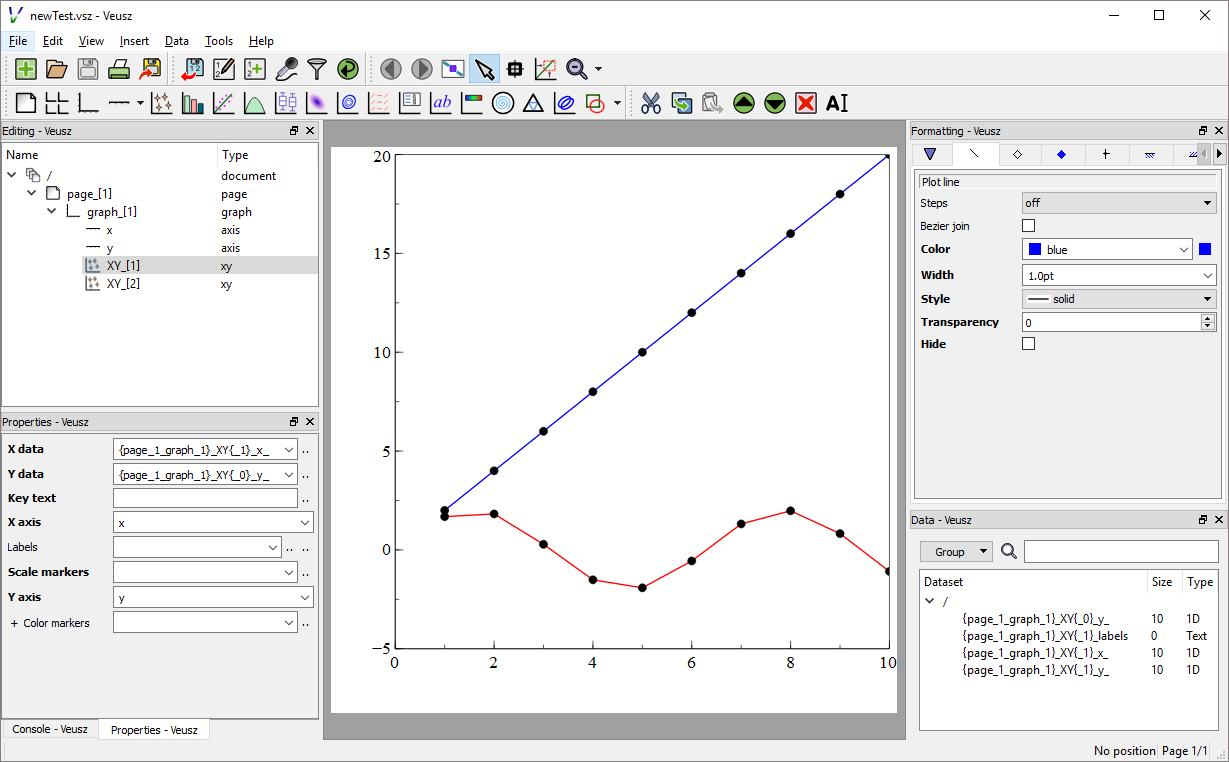
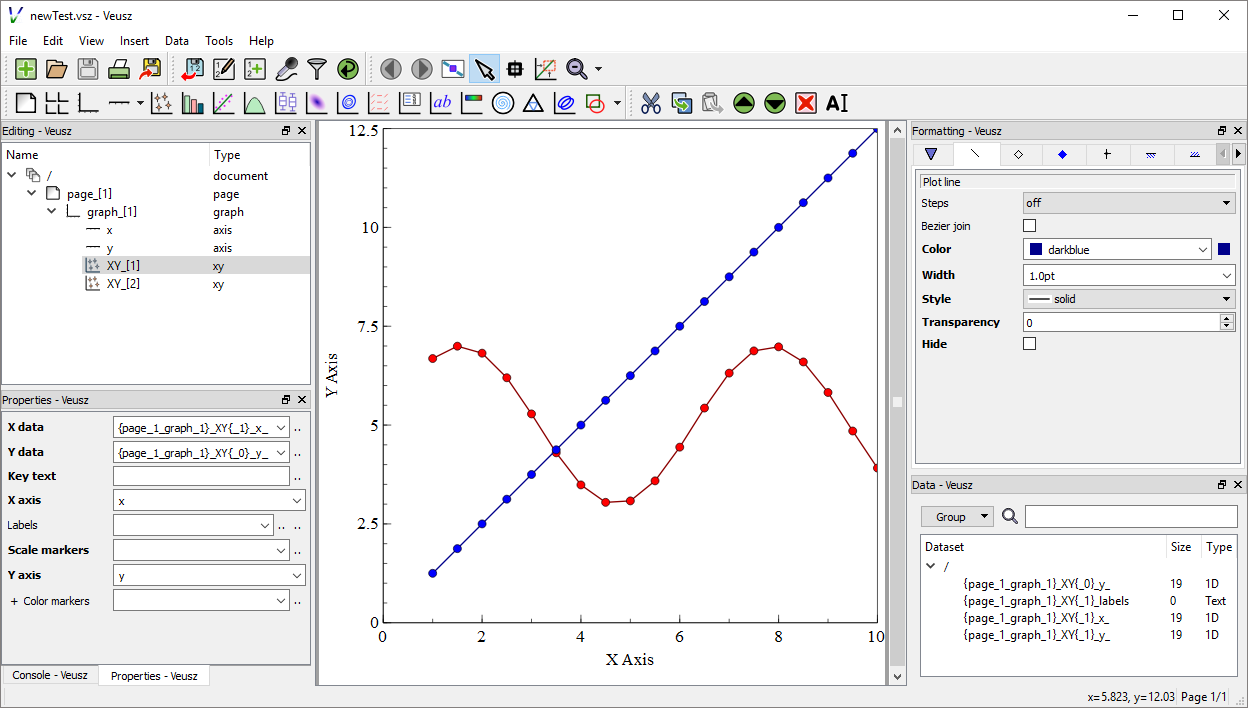
change example colors

diff --git a/readme.md b/readme.md
@@ -28,13 +28,13 @@ object RendererTest extends App {
   // create a linear XY Point Plot with Lines
   val xyDataLinear = XYData(XYDataEntry(xData), XYDataEntry(yLinear))
   val xyLinearPlot = GraphItems.XY(xyDataLinear)
-  xyLinearPlot.config.lineStyle.color = "blue"
+  xyLinearPlot.config.lineStyle.color = "darkblue"
   xyLinearPlot.config.markerFill.color = "blue"
 
   // create a sinus XY Point Plot with Lines
   val xyDataSinus = XYData(XYDataEntry(xData), XYDataEntry(ySin))
   val xySinusPlot = GraphItems.XY(xyDataSinus)
-  xySinusPlot.config.lineStyle.color = "red"
+  xySinusPlot.config.lineStyle.color = "darkred"
   xySinusPlot.config.markerFill.color = "red"
 
   // put both XY Plots into a Graph
